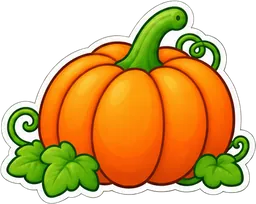
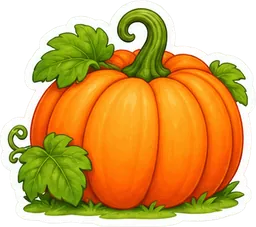
Ferme complète (32) : décor refait dans le bon style, mare, potager, puits et arrosoir en plus

diff --git a/src/assets.js b/src/assets.js
@@ -164,17 +164,21 @@ window.STICKERS = [
   { id: "llama", theme: "ferme", name: "Lama", src: "assets/stickers/ferme/llama.webp", w: 132, h: 256, scale: 1.1 },
   { id: "guinea-pig", theme: "ferme", name: "Cochon d'Inde", src: "assets/stickers/ferme/guinea-pig.webp", w: 256, h: 234, scale: 0.4 },
   { id: "barn", theme: "ferme", name: "Grange", src: "assets/stickers/ferme/barn.webp", w: 256, h: 232, scale: 1.7 },
-  { id: "tractor", theme: "ferme", name: "Tracteur", src: "assets/stickers/ferme/tractor.webp", w: 256, h: 204, scale: 1.2 },
-  { id: "windmill", theme: "ferme", name: "Moulin", src: "assets/stickers/ferme/windmill.webp", w: 241, h: 256, scale: 1.7 },
-  { id: "apple-tree", theme: "ferme", name: "Pommier", src: "assets/stickers/ferme/apple-tree.webp", w: 256, h: 254, scale: 1.6 },
-  { id: "haystack", theme: "ferme", name: "Botte de foin", src: "assets/stickers/ferme/haystack.webp", w: 256, h: 214, scale: 0.8 },
-  { id: "scarecrow", theme: "ferme", name: "Épouvantail", src: "assets/stickers/ferme/scarecrow.webp", w: 235, h: 256, scale: 1.1 },
+  { id: "tractor", theme: "ferme", name: "Tracteur", src: "assets/stickers/ferme/tractor.webp", w: 256, h: 212, scale: 1.2 },
+  { id: "windmill", theme: "ferme", name: "Moulin", src: "assets/stickers/ferme/windmill.webp", w: 198, h: 256, scale: 1.7 },
+  { id: "apple-tree", theme: "ferme", name: "Pommier", src: "assets/stickers/ferme/apple-tree.webp", w: 212, h: 256, scale: 1.6 },
+  { id: "haystack", theme: "ferme", name: "Botte de foin", src: "assets/stickers/ferme/haystack.webp", w: 256, h: 197, scale: 0.8 },
+  { id: "scarecrow", theme: "ferme", name: "Épouvantail", src: "assets/stickers/ferme/scarecrow.webp", w: 207, h: 256, scale: 1.1 },
   { id: "fence", theme: "ferme", name: "Barrière", src: "assets/stickers/ferme/fence.webp", w: 256, h: 207, scale: 0.9 },
-  { id: "pumpkin", theme: "ferme", name: "Citrouille", src: "assets/stickers/ferme/pumpkin.webp", w: 256, h: 204, scale: 0.6 },
-  { id: "henhouse", theme: "ferme", name: "Poulailler", src: "assets/stickers/ferme/henhouse.webp", w: 256, h: 249, scale: 1.0 },
-  { id: "doghouse", theme: "ferme", name: "Niche", src: "assets/stickers/ferme/doghouse.webp", w: 256, h: 228, scale: 0.8 },
-  { id: "wheelbarrow", theme: "ferme", name: "Brouette", src: "assets/stickers/ferme/wheelbarrow.webp", w: 256, h: 195, scale: 0.7 },
-  { id: "beehive", theme: "ferme", name: "Ruche", src: "assets/stickers/ferme/beehive.webp", w: 217, h: 256, scale: 0.6 },
+  { id: "pumpkin", theme: "ferme", name: "Citrouille", src: "assets/stickers/ferme/pumpkin.webp", w: 256, h: 227, scale: 0.6 },
+  { id: "henhouse", theme: "ferme", name: "Poulailler", src: "assets/stickers/ferme/henhouse.webp", w: 256, h: 233, scale: 1.0 },
+  { id: "doghouse", theme: "ferme", name: "Niche", src: "assets/stickers/ferme/doghouse.webp", w: 256, h: 253, scale: 0.8 },
+  { id: "wheelbarrow", theme: "ferme", name: "Brouette", src: "assets/stickers/ferme/wheelbarrow.webp", w: 256, h: 218, scale: 0.7 },
+  { id: "beehive", theme: "ferme", name: "Ruche", src: "assets/stickers/ferme/beehive.webp", w: 243, h: 256, scale: 0.6 },
+  { id: "pond", theme: "ferme", name: "Mare", src: "assets/stickers/ferme/pond.webp", w: 256, h: 243, scale: 0.9 },
+  { id: "vegetable-patch", theme: "ferme", name: "Potager", src: "assets/stickers/ferme/vegetable-patch.webp", w: 256, h: 248, scale: 0.8 },
+  { id: "well", theme: "ferme", name: "Puits", src: "assets/stickers/ferme/well.webp", w: 221, h: 256, scale: 1.0 },
+  { id: "watering-can", theme: "ferme", name: "Arrosoir", src: "assets/stickers/ferme/watering-can.webp", w: 256, h: 227, scale: 0.45 },
 
   // Désert (en réserve)
   { id: "camel", theme: "desert", name: "Dromadaire", src: "assets/stickers/desert/camel.webp", w: 210, h: 256, scale: 1.4 },
